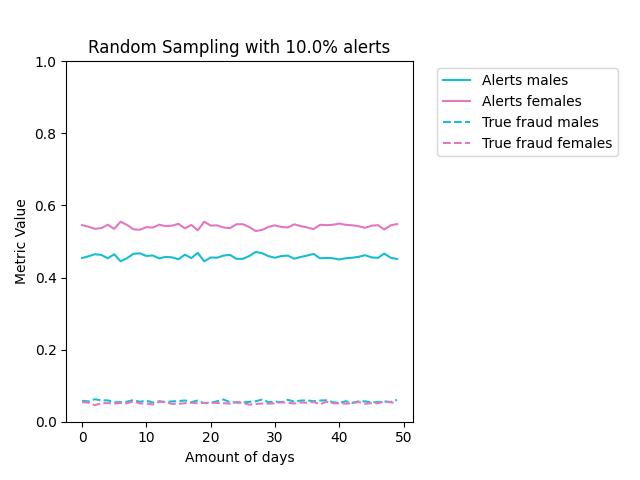
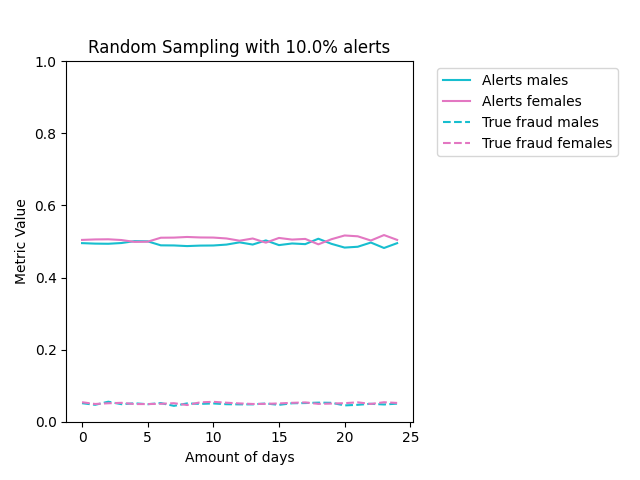
Fix: improved plots

diff --git a/scenarios/RQ3_metrics_over_time.py b/scenarios/RQ3_metrics_over_time.py
@@ -1,35 +1,35 @@
 from fraud_detector import TransactionsOverTime
 
-print("Random Sampling")
-bank_process: TransactionsOverTime = TransactionsOverTime(
-    male_fraud_proportion=0.2,
-    female_fraud_proportion=0.1,
-    classifier_name='RandomForest',
-    sample_size=6500,
-    random_training_set=True,
-    amount_of_days=10,
-    title_scenario="Random Sampling",
-    percentage_alerts=0.1,
-)
-bank_process.plot(n_iterations=10)
-#
-# print()
-#
-# print("Selection bias scenario 2")
+# print("Random Sampling")
 # bank_process: TransactionsOverTime = TransactionsOverTime(
-#     male_fraud_proportion=0.3,
+#     male_fraud_proportion=0.2,
 #     female_fraud_proportion=0.1,
 #     classifier_name='RandomForest',
 #     sample_size=6500,
-#     amount_of_days=50,
-#     title_scenario="Over-representation",
+#     random_training_set=True,
+#     amount_of_days=25,
+#     title_scenario="Random Sampling",
 #     percentage_alerts=0.1,
-#     active_learning=True,
-#     percentage_active_learning=0.1,
 # )
-# bank_process.plot(n_iterations=100)
+# bank_process.plot(n_iterations=25)
 #
 # print()
+
+print("Selection bias scenario 2")
+bank_process: TransactionsOverTime = TransactionsOverTime(
+    male_fraud_proportion=0.3,
+    female_fraud_proportion=0.1,
+    classifier_name='RandomForest',
+    sample_size=6500,
+    amount_of_days=25,
+    title_scenario="Over-representation",
+    percentage_alerts=0.1,
+    active_learning=True,
+    percentage_active_learning=0.1,
+)
+bank_process.plot(n_iterations=25)
+
+print()
 
 # print("Selection bias scenario 3")
 # bank_process: TransactionsOverTime = TransactionsOverTime(

diff --git a/fraud_detector/transactions_over_time.py b/fraud_detector/transactions_over_time.py
@@ -179,8 +179,10 @@ class TransactionsOverTime:
 
         plt.plot(metric2_males, label=f'{metric2_name} males', color=colors['male'], linestyle=linestyles[1])
         plt.plot(metric2_females, label=f'{metric2_name} females', color=colors['female'], linestyle=linestyles[1])
-        if metric1_name in ['OFR', 'FDR']:
+        if metric1_name in ['FPR']:
             plt.ylim(0, 0.5)
+        elif metric1_name in ['FDR']:
+            plt.ylim(0, 0.25)
         else:
             plt.ylim(0, 1)
 
